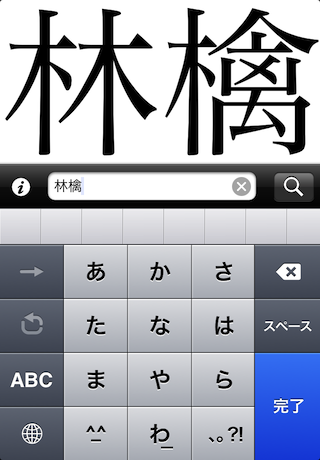
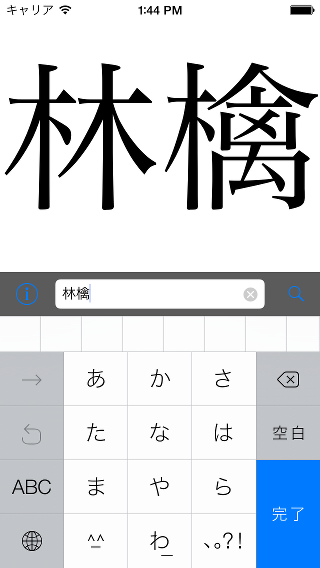
fix for KanjiMagnifier v1.0.1

diff --git a/ios/kanjimagnifier/index_en.html b/ios/kanjimagnifier/index_en.html
@@ -37,9 +37,9 @@
     </header>
 
     <figure>
-      <img src="img/KanjiMagnifier01.png" />
-      <img src="img/KanjiMagnifier02.png" />
-      <img src="img/KanjiMagnifier03.png" />
+      <img src="img/KanjiMagnifier01_en.png" />
+      <img src="img/KanjiMagnifier02_en.png" />
+      <img src="img/KanjiMagnifier03_en.png" />
     </figure>
 
     <ul id="downloadList">
@@ -49,8 +49,13 @@
     <article>
       <h1>Version History</h1>
       <dl>
-        <dt>2012-10-16</dt>
+
+        <dt>2013-09-25: ver. 1.0.1</dt>
+        <dd>Optimized for iOS 7</dd>
+
+        <dt>2012-10-16: ver. 1.0</dt>
         <dd>Initial version</dd>
+
       </dl>
     </article>
 

diff --git a/ios/kanjimagnifier/index.html b/ios/kanjimagnifier/index.html
@@ -49,8 +49,13 @@
     <article>
       <h1>ヴァージョン履歴</h1>
       <dl>
-        <dt>2012年10月16日</dt>
+
+        <dt>2013年9月25日：ver. 1.0.1</dt>
+        <dd>iOS 7に最適化</dd>
+
+        <dt>2012年10月16日：ver. 1.0</dt>
         <dd>初期ヴァージョン</dd>
+
       </dl>
     </article>
 

diff --git a/ios/kanjimagnifier/style.css b/ios/kanjimagnifier/style.css
@@ -128,6 +128,8 @@ figure {
 
 figure img {
     max-width: 30%;
+    border: 1px solid lightgray;
+    -webkit-box-shadow: 0 0 3px lightgray;
 }
 
 article {
